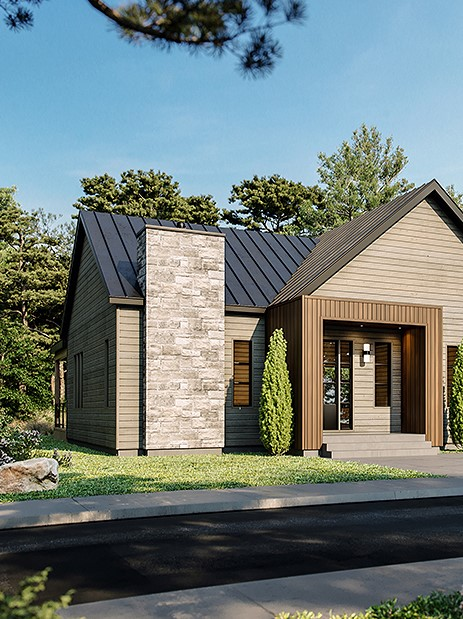
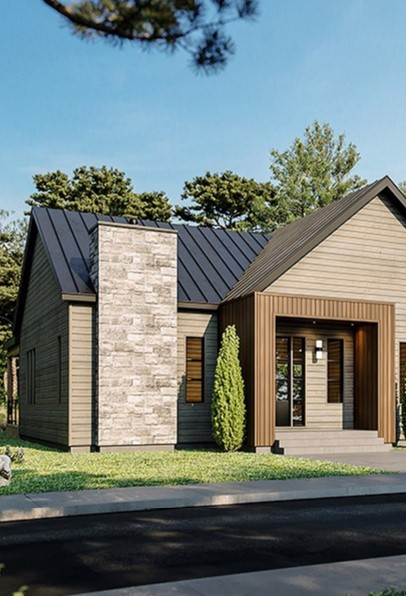
image
height and padding

diff --git a/src/components/ProjectList/index.js b/src/components/ProjectList/index.js
@@ -9,7 +9,7 @@ import "./style.css";
 
 const ProjectList = ({ t }) => {
   return (
-    <section className="projects-area projects-page-area">
+    <section className="projects-area  ">
       <div className="container">
         <div className="row">
           <div className="col-md-12 mx-auto">
@@ -25,7 +25,7 @@ const ProjectList = ({ t }) => {
               <div className="col-md-5  col-sm-6">
                 <div className="project-box">
                   <Link to="/projects/1">
-                    <img src={projectImg1} alt="img" width={`100%`}/>
+                    <img src={projectImg1} alt="img" width={`100%`} height = {`100%`}/>
                     <h3>
                     Saint-Ad è le 
                       <br />  Burlintong
@@ -56,7 +56,7 @@ const ProjectList = ({ t }) => {
               <div className="col-md-5 col-sm-6">
                 <div className="project-box">
                   <Link to="/projects/2">
-                    <img src={projectImg2} alt="img" width={`100%`} />
+                    <img src={projectImg2} alt="img" width={`100%`} height = {`100%`}/>
                     <h3>
                     Saint-Ad è le
                       <br /> Scandinave
